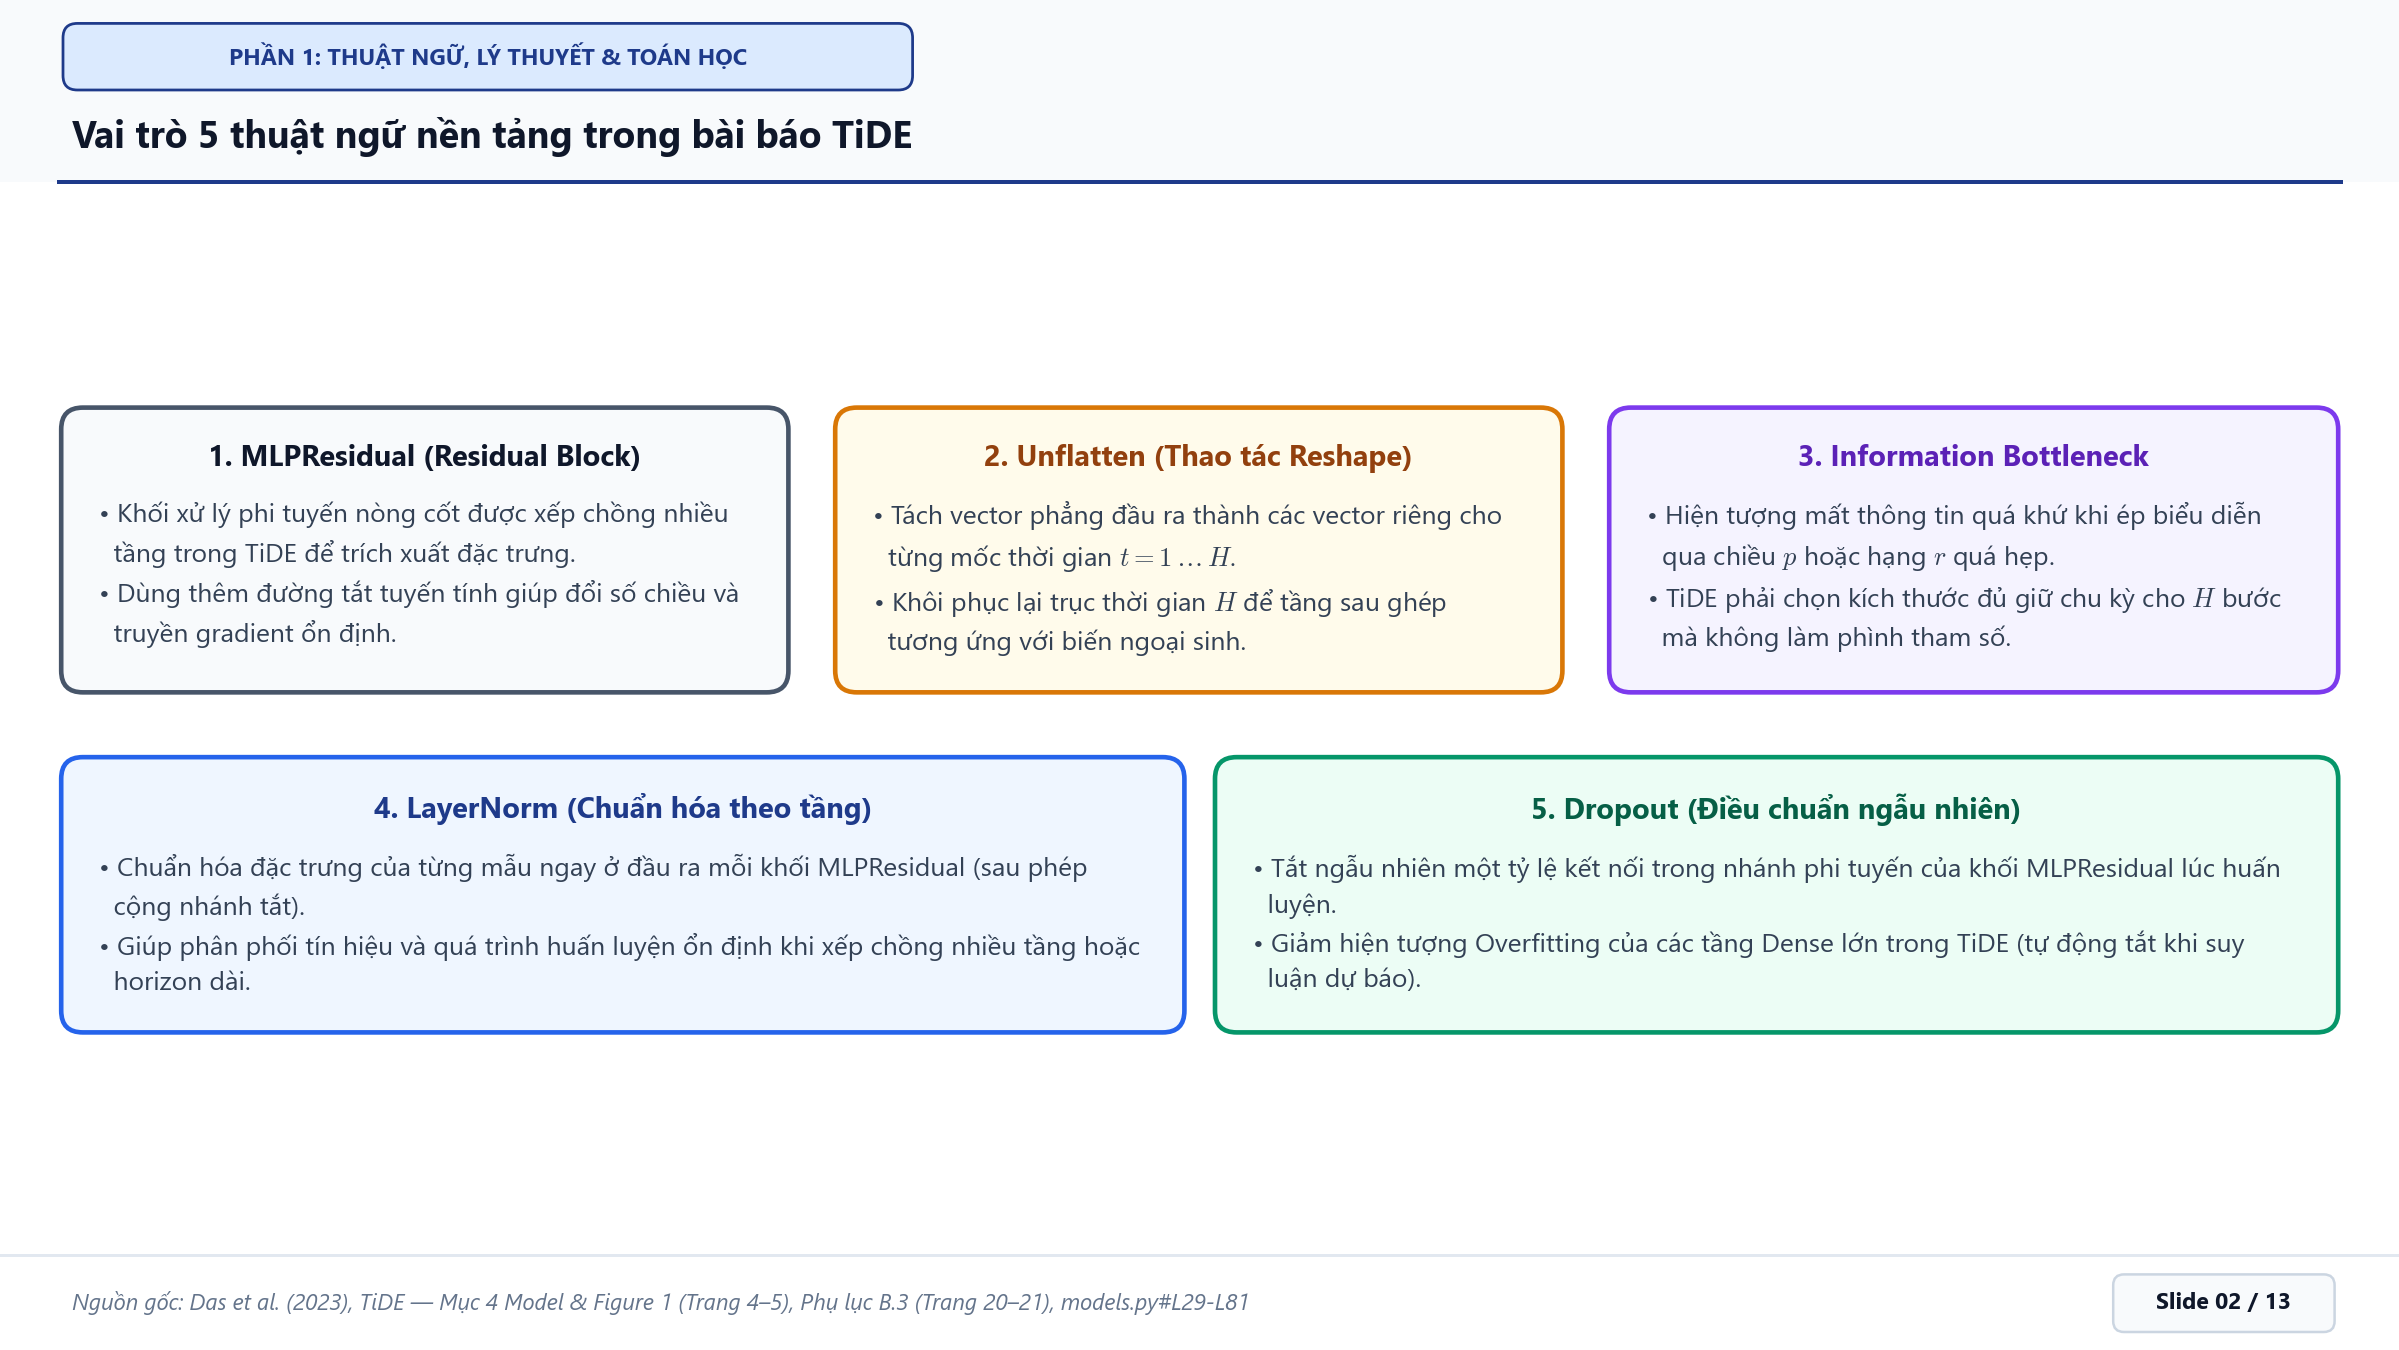
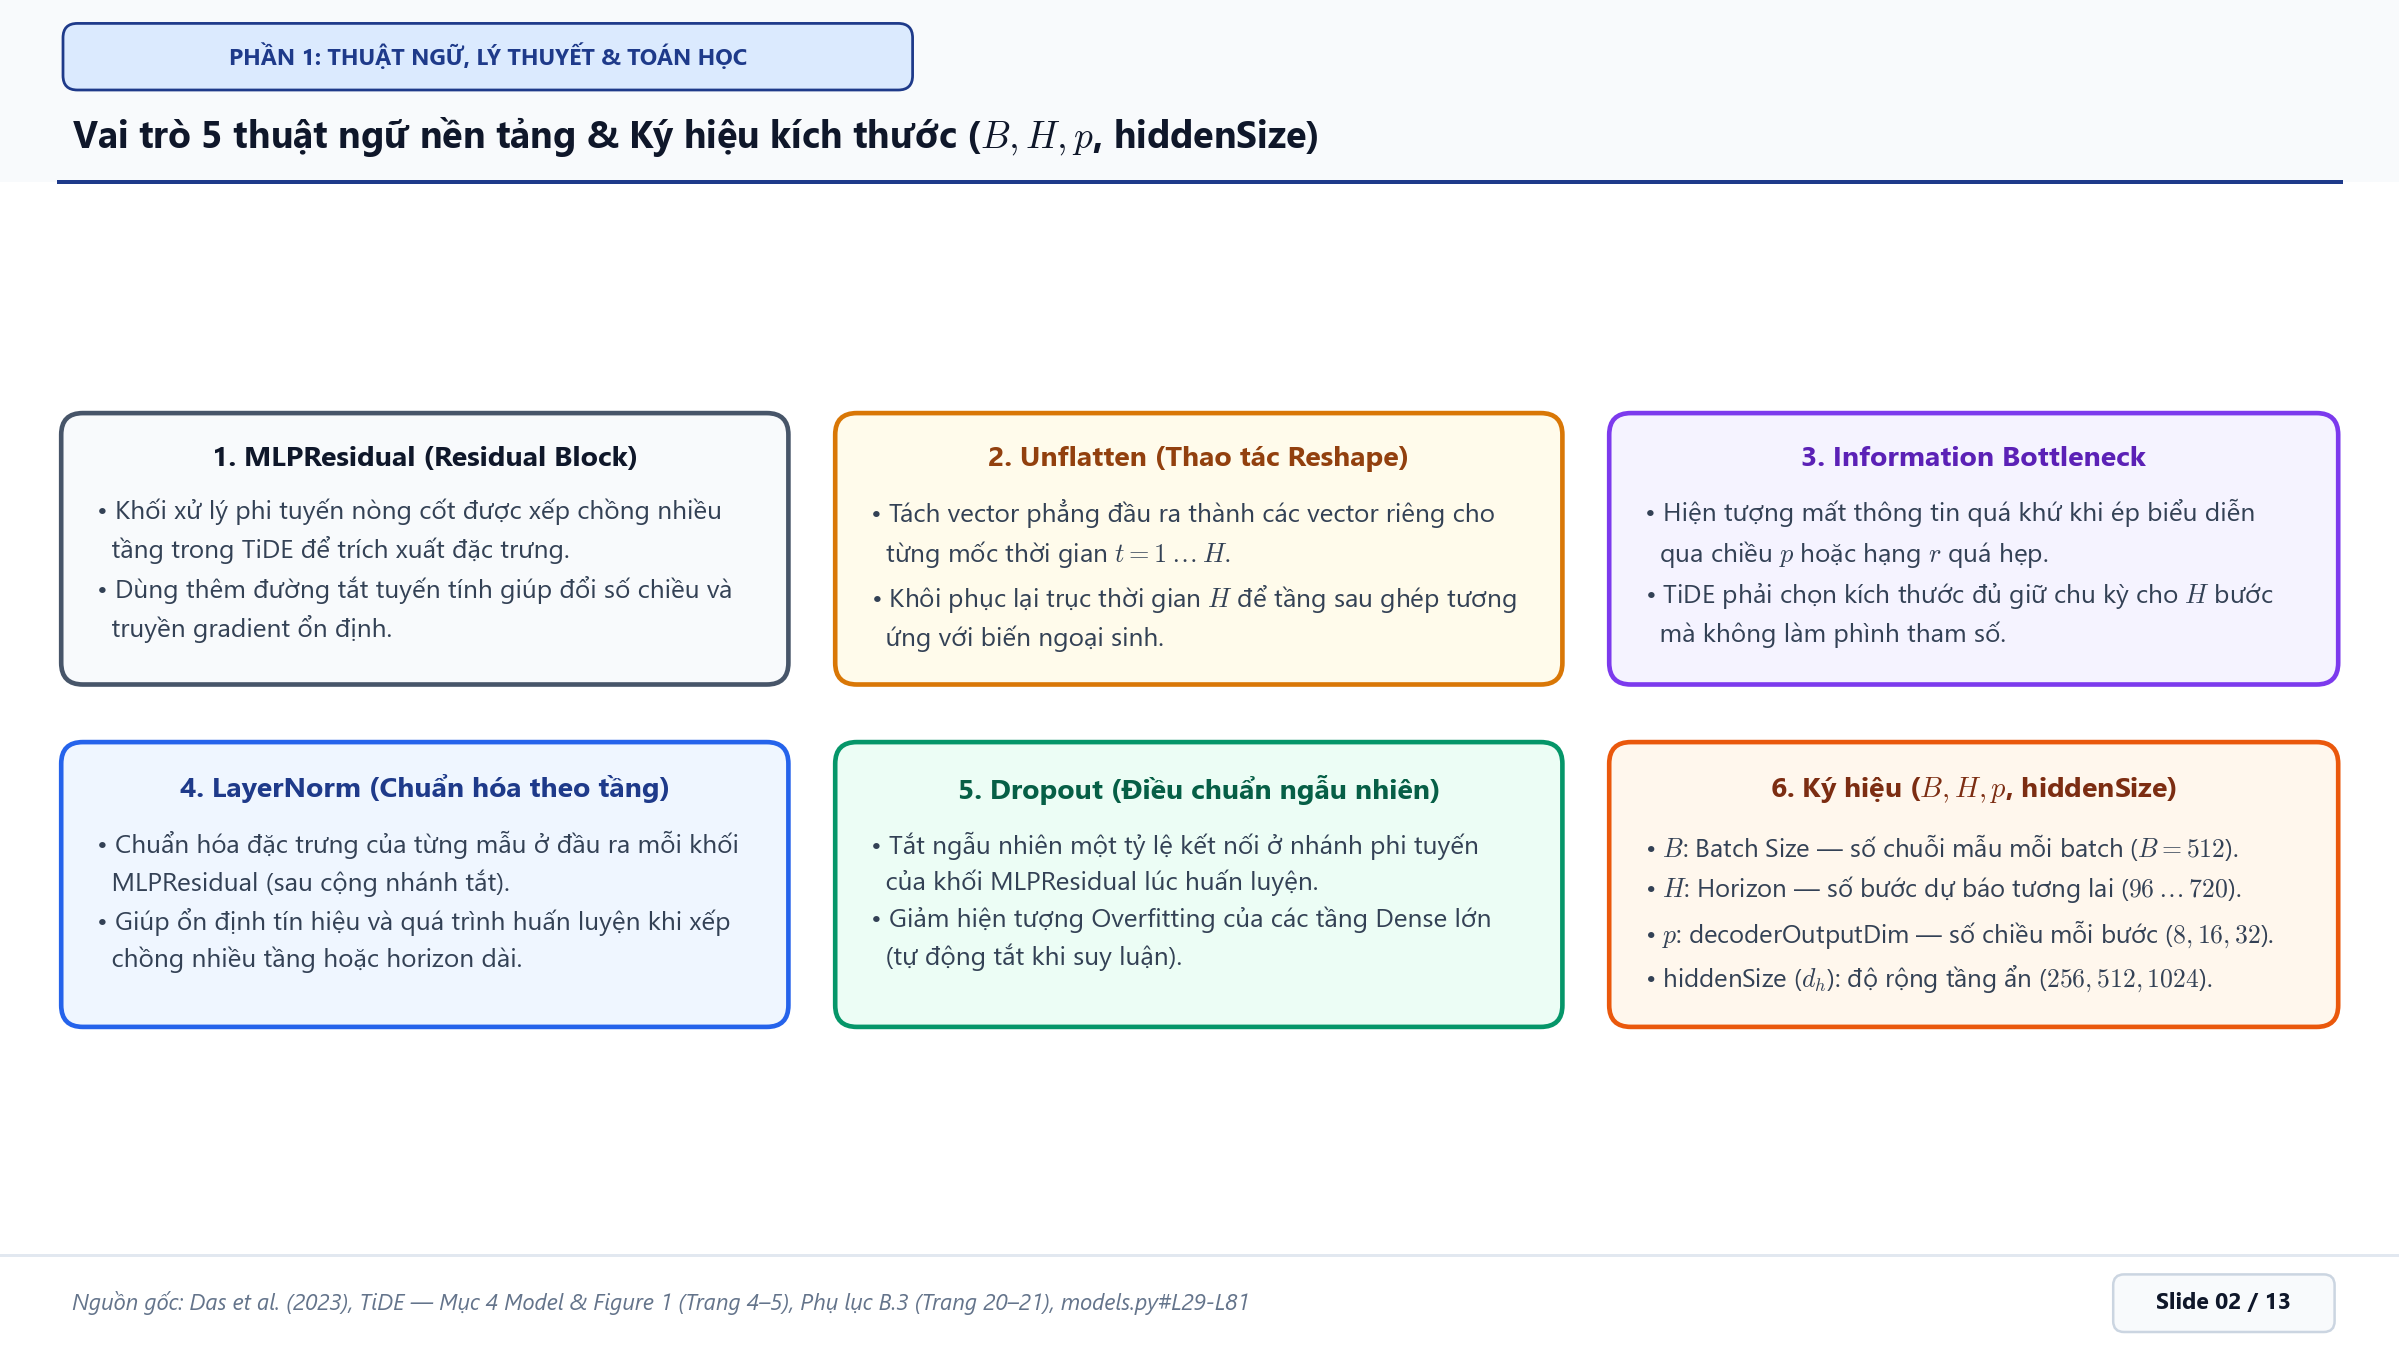
Add card 6 defining B, H, p, and hiddenSize on Slide 02 / 13

diff --git a/tasks-Hieu/presentation/slide/slide_01_phan_1_ly_thuyet_va_toan_hoc.md b/tasks-Hieu/presentation/slide/slide_01_phan_1_ly_thuyet_va_toan_hoc.md
@@ -4,19 +4,20 @@
 
 ---
 
-## Slide 02 / 13 — Vai trò 5 thuật ngữ nền tảng trong bài báo TiDE
+## Slide 02 / 13 — Vai trò 5 thuật ngữ nền tảng & Ký hiệu kích thước ($B, H, p$, hiddenSize)
 
-![Slide 02: Vai trò 5 thuật ngữ nền tảng](./images/slide_01_bang_thuat_ngu_dense_decoder.png)
+![Slide 02: Vai trò 5 thuật ngữ nền tảng & Ký hiệu kích thước](./images/slide_01_bang_thuat_ngu_dense_decoder.png)
 
-### Giải thích ngắn gọn vai trò từng thuật ngữ trong bài báo TiDE
+### Giải thích ngắn gọn vai trò từng thuật ngữ & ký hiệu trong bài báo TiDE
 
-| STT | Thuật ngữ | Vai trò trong bài báo TiDE |
+| STT | Thuật ngữ / Ký hiệu | Vai trò trong bài báo TiDE |
 | :--- | :--- | :--- |
 | **1** | **MLPResidual (Residual Block)** | Khối xử lý phi tuyến nòng cốt được xếp chồng nhiều tầng trong TiDE để trích xuất đặc trưng; dùng thêm đường tắt tuyến tính giúp đổi số chiều và truyền gradient ổn định. |
 | **2** | **Unflatten (Thao tác Reshape)** | Tách vector phẳng đầu ra thành các vector riêng cho từng mốc thời gian $t = 1 \dots H$, khôi phục trục thời gian $H$ để tầng sau ghép tương ứng với biến ngoại sinh. |
 | **3** | **Information Bottleneck** | Hiện tượng mất thông tin quá khứ khi ép biểu diễn qua chiều $p$ hoặc hạng $r$ quá hẹp; TiDE phải chọn kích thước đủ giữ chu kỳ cho $H$ bước mà không làm phình tham số. |
-| **4** | **LayerNorm (Chuẩn hóa theo tầng)** | Chuẩn hóa đặc trưng của từng mẫu ngay ở đầu ra mỗi khối `MLPResidual` (sau phép cộng nhánh tắt), giúp phân phối tín hiệu và quá trình huấn luyện ổn định khi xếp chồng nhiều tầng hoặc horizon dài. |
-| **5** | **Dropout (Điều chuẩn ngẫu nhiên)** | Tắt ngẫu nhiên một tỷ lệ kết nối trong nhánh phi tuyến của khối `MLPResidual` lúc huấn luyện nhằm giảm Overfitting của các tầng Dense lớn (tự động tắt khi suy luận dự báo). |
+| **4** | **LayerNorm (Chuẩn hóa theo tầng)** | Chuẩn hóa đặc trưng của từng mẫu ở đầu ra mỗi khối `MLPResidual` (sau cộng nhánh tắt), giúp ổn định tín hiệu và quá trình huấn luyện khi xếp chồng nhiều tầng hoặc horizon dài. |
+| **5** | **Dropout (Điều chuẩn ngẫu nhiên)** | Tắt ngẫu nhiên một tỷ lệ kết nối ở nhánh phi tuyến của khối `MLPResidual` lúc huấn luyện nhằm giảm Overfitting của các tầng Dense lớn (tự động tắt khi suy luận). |
+| **6** | **Ký hiệu ($B, H, p$, `hiddenSize`)** | $B$: `Batch Size` ($B=512$); $H$: `Horizon` ($96, 192, 336, 720$); $p$: `decoderOutputDim` ($8, 16, 32$); `hiddenSize` ($d_h$): độ rộng tầng ẩn ($256, 512, 1024$). |
 
 ---
 

diff --git a/tasks-Hieu/presentation/slide/script_thuyet_trinh_tung_slide.md b/tasks-Hieu/presentation/slide/script_thuyet_trinh_tung_slide.md
@@ -52,9 +52,9 @@ Bây giờ mình vào ngay **Slide 02** để thống nhất các ký hiệu và
 
 ---
 
-### 🟢 SLIDE 02 / 13 — THUẬT NGỮ NỀN TẢNG CỐT LÕI (`MLPResidual`, `Unflatten`, `Information Bottleneck`, `LayerNorm`, `Dropout`)
+### 🟢 SLIDE 02 / 13 — THUẬT NGỮ NỀN TẢNG & KÝ HIỆU KÍCH THƯỚC (`B`, `H`, `p`, `hiddenSize`)
 
-* **Ảnh slide:** `slide_01_bang_thuat_ngu_dense_decoder.png` ([Xem ảnh trong gallery](./slide_images_gallery.md#slide-02--13-thuật-ngữ-nền-tảng-cốt-lõi-mlpresidual-unflatten-information-bottleneck-layernorm-dropout))
+* **Ảnh slide:** `slide_01_bang_thuat_ngu_dense_decoder.png` ([Xem ảnh trong gallery](./slide_images_gallery.md#slide-02--13-vai-trò-5-thuật-ngữ-nền-tảng--ký-hiệu-kích-thước-b-h-p-hiddensize))
 * **Thời lượng dự kiến:** 75 – 85 giây.
 * **Mục tiêu slide:** Giúp người mới hiểu ngay ý nghĩa thực tế của các ký hiệu $B, H, p, d_h$ và 5 thuật ngữ cốt lõi trước khi xem sơ đồ.
 
